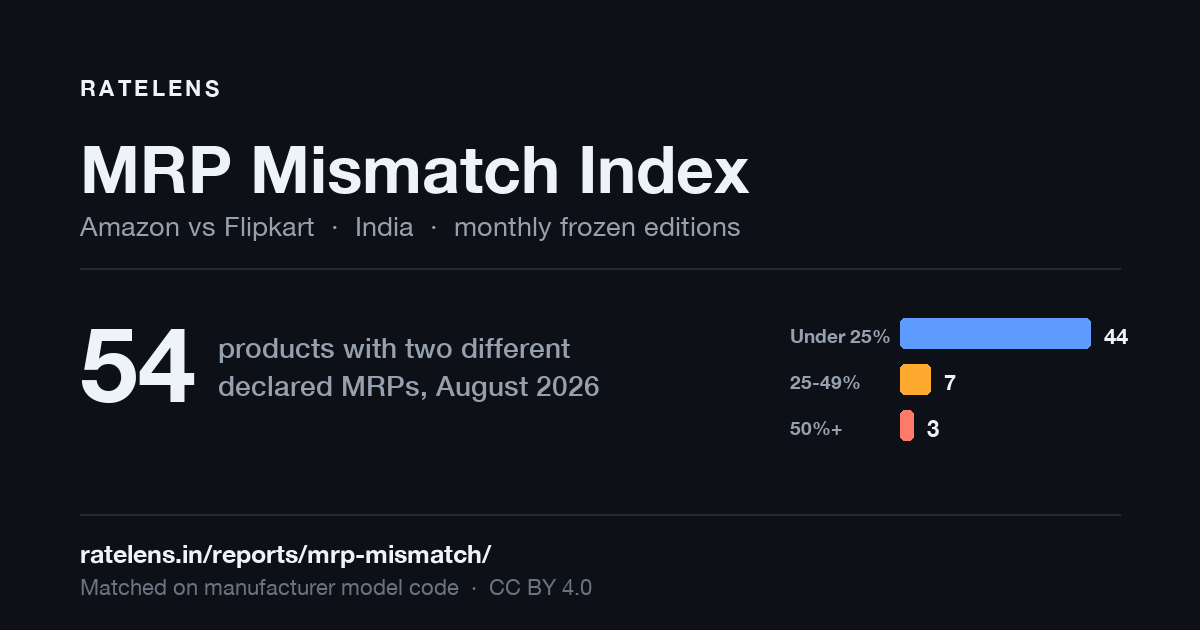
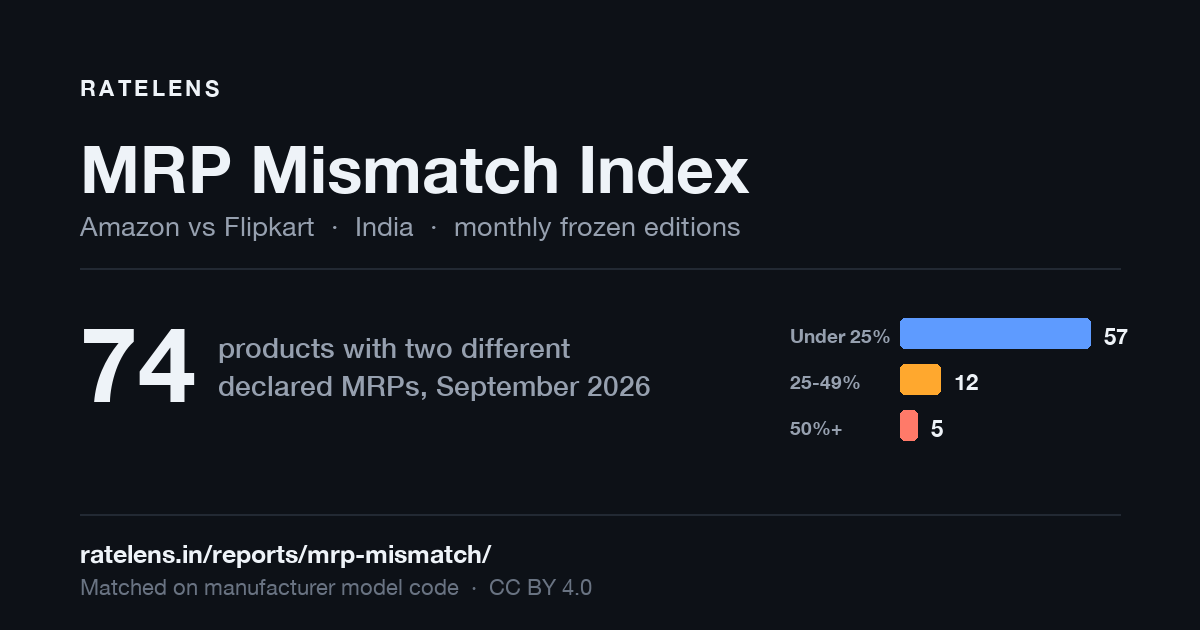
Add the September 2026 edition

diff --git a/README.md b/README.md
@@ -6,17 +6,17 @@ Retail Prices for the same item**.
 Under India's Legal Metrology (Packaged Commodities) Rules, MRP is a property of
 the product, not of the shop: two retailers may charge different prices, but they
 should not publish different MRPs for the same item. Where they do, the
-advertised "% off" is calculated from a figure at least one of them has wrong —
+advertised **discount percentage** is calculated from a figure at least one of them has wrong,
 so the discount badge can differ even when the selling price is identical.
 
-In the August 2026 edition, **54 products**
+In the September 2026 edition, **74 products**
 carried a different declared MRP across the two platforms. In
 **15** of them the selling price was effectively the
 same, leaving the size of the discount badge as the only difference. The median
-gap between the two declared MRPs was **13.5%**.
+gap between the two declared MRPs was **11.5%**.
 
 **Canonical source:** https://www.ratelens.in/reports/mrp-mismatch/
-**Maintained by:** Ratelens (https://www.ratelens.in) — a price-comparison site for personal
+**Maintained by:** Ratelens (https://www.ratelens.in), a price-comparison site for personal
 grooming appliances in India.
 
 ## Editions
@@ -26,6 +26,7 @@ figure cited from it stays true.
 
 | Edition | Observed | Mismatches | Same selling price | Products matched | Listings observed | Data |
 |---|---|---|---|---|---|---|
+| [September 2026](https://www.ratelens.in/reports/mrp-mismatch/2026-09/) | 2026-09-30 | 74 | 15 | 232 | 9307 | [CSV](mrp-mismatch-2026-09.csv) |
 | [August 2026](https://www.ratelens.in/reports/mrp-mismatch/2026-08/) | 2026-08-31 | 54 | 15 | 197 | 6201 | [CSV](mrp-mismatch-2026-08.csv) |
 
 ## Columns
@@ -62,7 +63,7 @@ figure cited from it stays true.
 
 - **It does not say which platform is wrong.** With only two sources declaring
   an MRP, the data shows both cannot be right, not which one errs. The
-  `can_name` column is `false` in exactly those cases — which is most of them.
+  `can_name` column is `false` in exactly those cases, which is most of them.
 - **It does not establish intent.** A wrong MRP may be a stale catalogue entry,
   a pack revision, or a variant mismatch. Nothing here demonstrates otherwise.
 - **It is a sample, not a census.** Coverage is personal grooming appliances on
@@ -76,5 +77,5 @@ commercially, with attribution.
 
 ## Citation
 
-> Ratelens, "MRP Mismatch Index — August 2026", observed
-> 2026-08-31. https://www.ratelens.in/reports/mrp-mismatch/2026-08/
+> Ratelens, "MRP Mismatch Index, September 2026", observed
+> 2026-09-30. https://www.ratelens.in/reports/mrp-mismatch/2026-09/
